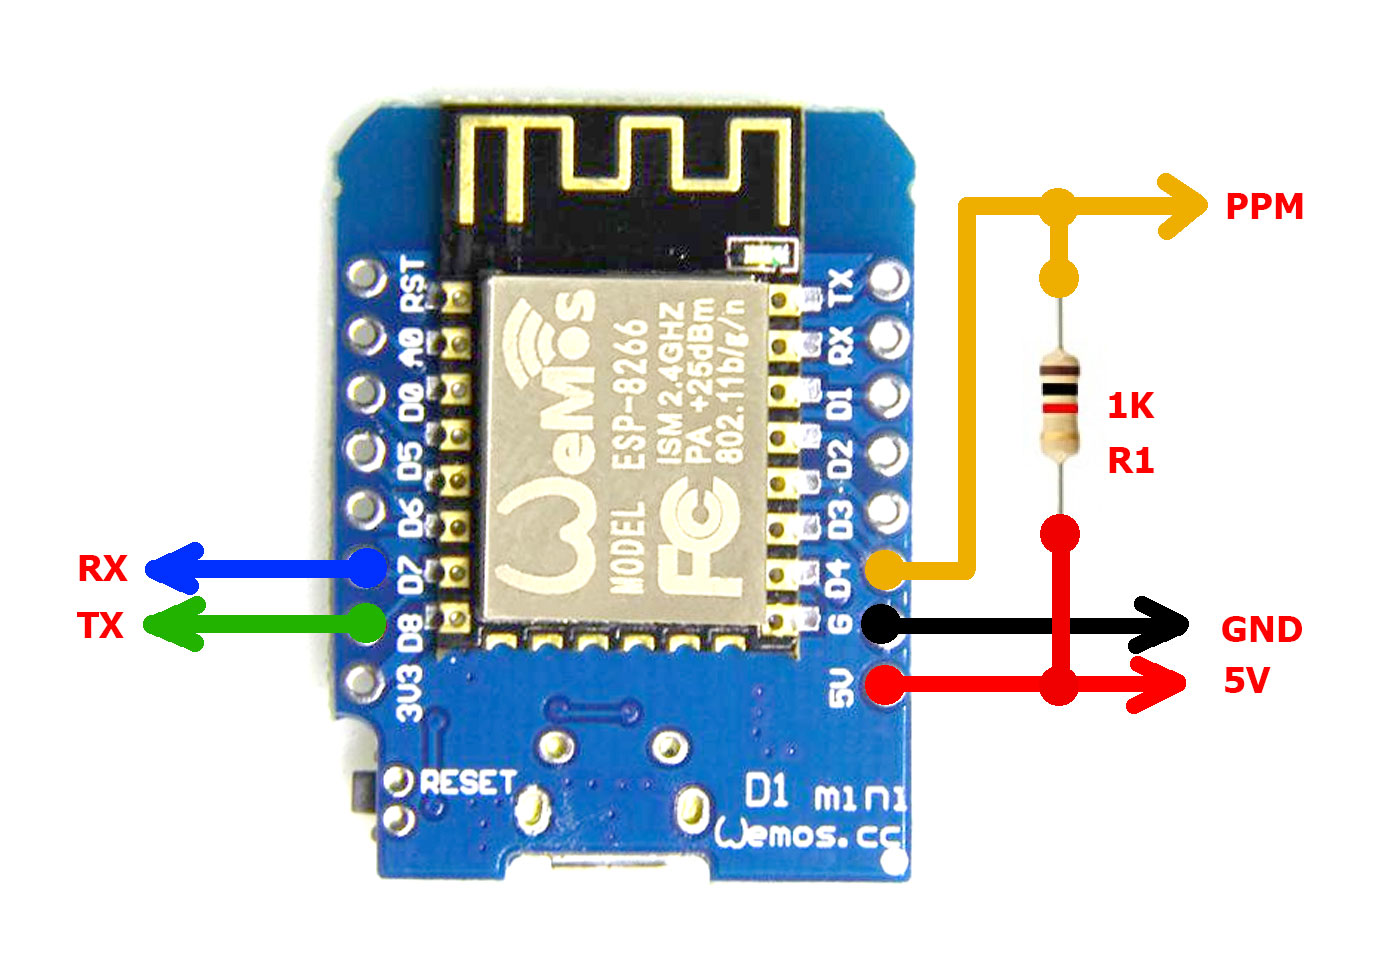
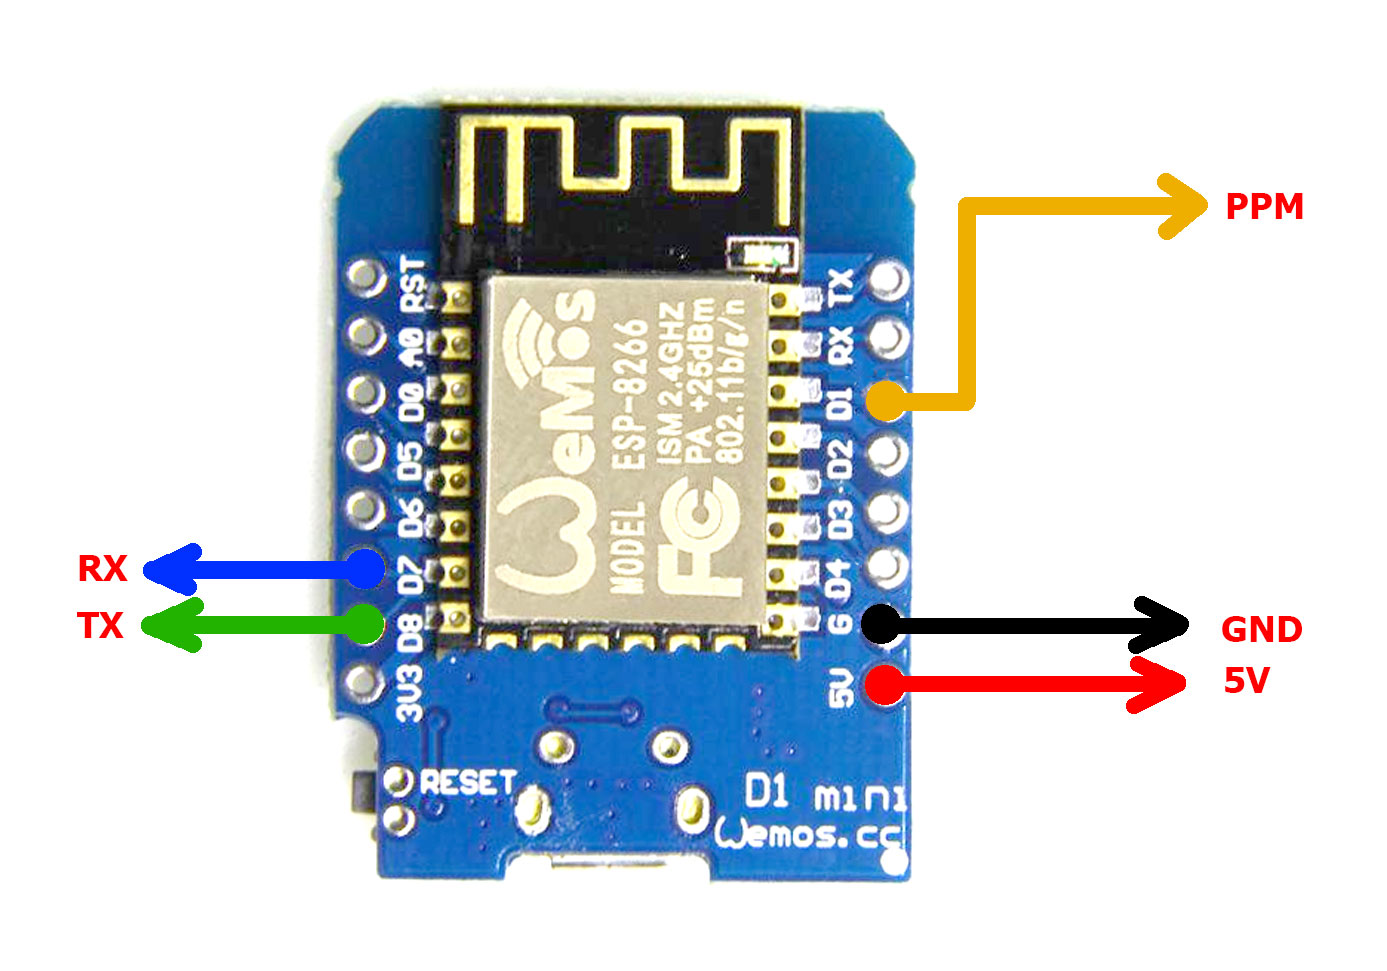
update d1_mini_ppm project

diff --git a/examples/rx_d1_mini_ppm/include/rx_config.h b/examples/rx_d1_mini_ppm/include/rx_config.h
@@ -15,10 +15,11 @@ GPIO15 D8 =o         o= GND
 
 https://randomnerdtutorials.com/esp8266-pinout-reference-gpios/ 
 
-GPIO2 - PPM output
 GPIO15 - Telemetry TX 
 GPIO13 - Telemetry RX
 */
+
+#define PPM_PIN 5  //D1
 
 //#define TELEMETRY_BAUDRATE 115200
 #define TELEMETRY_BAUDRATE 9600

diff --git a/examples/rx_d1_mini_ppm/src/main.cpp b/examples/rx_d1_mini_ppm/src/main.cpp
@@ -47,7 +47,7 @@ void setup()
   
   Serial.swap(); //GPIO15 D8 (TX) and GPIO13 D7 (RX)
 
-  hxPPMEncoder.init( PPM_CHANNELS_COUNT, 2 );  //D4
+  hxPPMEncoder.init( PPM_CHANNELS_COUNT, PPM_PIN );  
 
   hxrcSlave.init(
       HXRCConfig(
